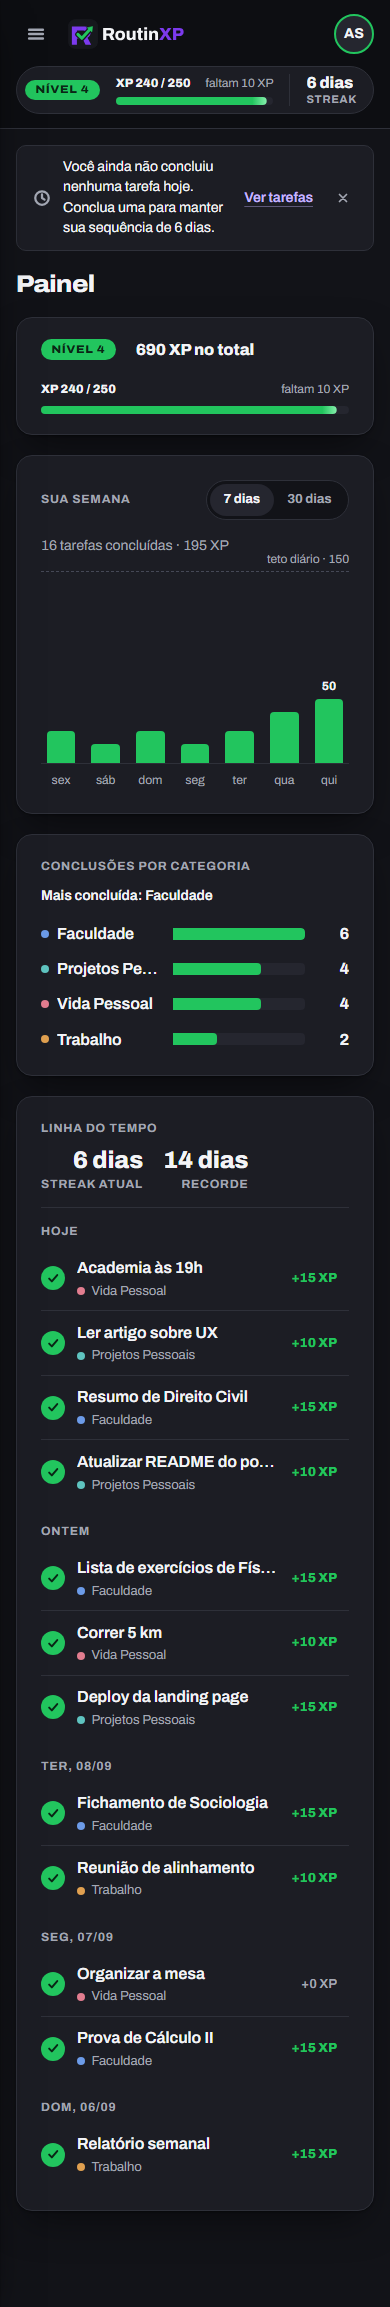
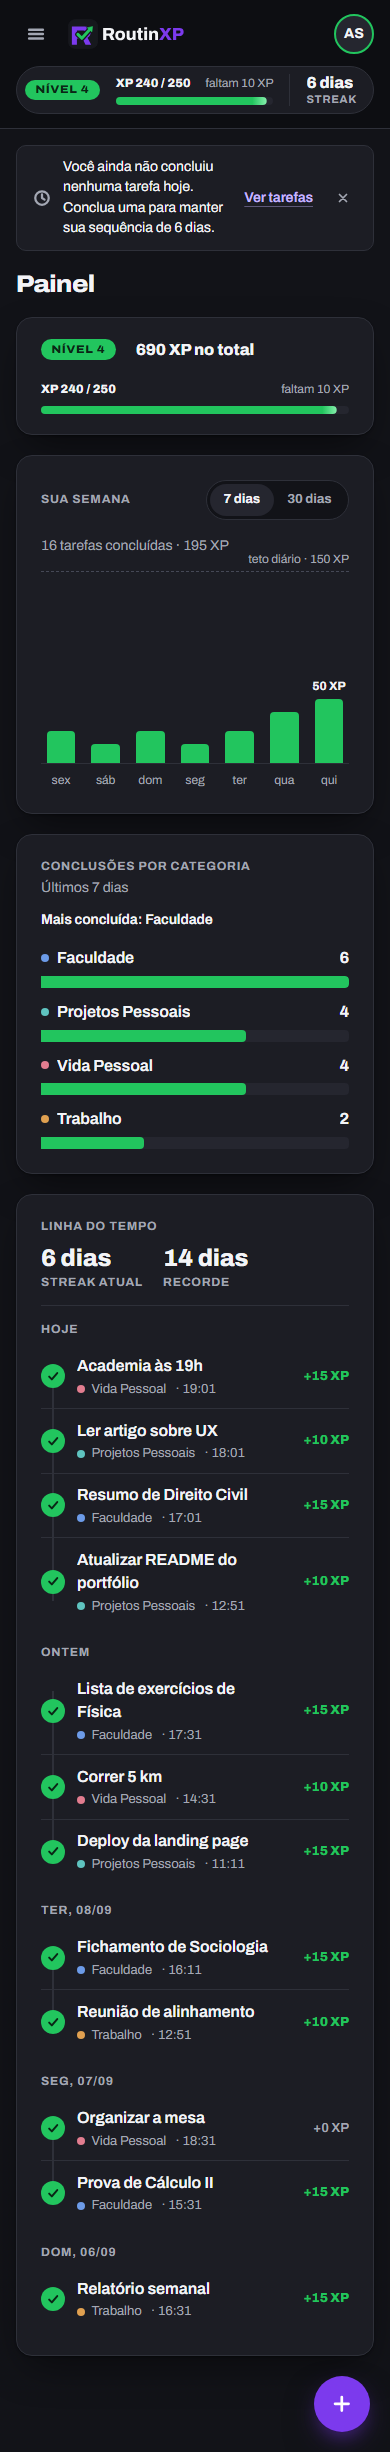
Passo 11: correções da revisão final do Impeccable
- Hora de cada conclusão também no celular (junto da categoria)
- Títulos da linha do tempo em até 2 linhas; linha vertical ligando os checks
- Categorias no celular: nome e contagem em cima, barra inteira embaixo
- Unidade XP no gráfico e na dica; período no cartão de categorias
- Colunas do gráfico só visuais; leitor de tela usa a tabela
- Gaveta fechada fora da ordem do Tab, aria-expanded no botão, foco entra e volta
- Botão flutuante de nova tarefa em todas as páginas no celular
- Cartão do usuário no menu sem estado selecionado duplicado

diff --git a/src/pages/painel.css b/src/pages/painel.css
@@ -69,6 +69,11 @@
   margin: 0;
 }
 
+.painel__titulos {
+  display: grid;
+  gap: 0.25rem;
+}
+
 /* O filtro segmentado da tela de tarefas é posicionado; aqui ele fica no fluxo. */
 .painel .segmentos {
   position: static;
@@ -137,8 +142,7 @@
   border-radius: 8px;
 }
 
-.barras__coluna:hover,
-.barras__coluna:focus-visible {
+.barras__coluna:hover {
   background: var(--panel-2);
 }
 
@@ -188,8 +192,7 @@
   transform: translate(0, -110%);
 }
 
-.barras__coluna:hover .barras__dica,
-.barras__coluna:focus-visible .barras__dica {
+.barras__coluna:hover .barras__dica {
   opacity: 1;
 }
 
@@ -365,10 +368,37 @@
 }
 
 .linha-tempo__titulo {
+  display: -webkit-box;
+  -webkit-box-orient: vertical;
+  -webkit-line-clamp: 2;
+  line-clamp: 2;
   overflow: hidden;
-  text-overflow: ellipsis;
-  white-space: nowrap;
+  overflow-wrap: anywhere;
   font-weight: 600;
+}
+
+/* Linha vertical ligando os checks de cada dia: é a "linha" da linha do tempo. */
+.linha-tempo__lista {
+  position: relative;
+}
+
+.linha-tempo__lista::before {
+  content: '';
+  position: absolute;
+  left: calc(0.75rem - 1px);
+  top: 1.5rem;
+  bottom: 1.5rem;
+  width: 2px;
+  background: var(--rule);
+}
+
+.linha-tempo__check {
+  position: relative;
+  z-index: 1;
+}
+
+.linha-tempo__hora-curta {
+  display: none;
 }
 
 .linha-tempo__cat {
@@ -385,6 +415,8 @@
 }
 
 .linha-tempo__xp {
+  min-width: 3.75rem;
+  text-align: right;
   font-size: 0.8125rem;
   font-weight: 800;
   color: var(--green);
@@ -413,12 +445,41 @@
 }
 
 @media (max-width: 30rem) {
+  /* Nome e contagem numa linha, barra inteira embaixo: o nome nunca é cortado. */
   .cat-barras__linha {
-    grid-template-columns: minmax(0, 7.5rem) minmax(0, 1fr) 2rem;
-    gap: 0.75rem;
+    grid-template-columns: minmax(0, 1fr) auto;
+    grid-template-areas:
+      'nome valor'
+      'trilho trilho';
+    gap: 0.4rem 0.75rem;
+  }
+
+  .cat-barras__nome {
+    grid-area: nome;
+  }
+
+  .cat-barras__trilho {
+    grid-area: trilho;
+  }
+
+  .cat-barras__valor {
+    grid-area: valor;
+  }
+
+  .linha-tempo__item {
+    grid-template-columns: auto minmax(0, 1fr) auto;
   }
 
   .linha-tempo__hora {
     display: none;
+  }
+
+  .linha-tempo__hora-curta {
+    display: inline;
+    white-space: pre;
+  }
+
+  .painel__streaks div {
+    justify-items: start;
   }
 }

diff --git a/src/pages/Shell.jsx b/src/pages/Shell.jsx
@@ -1,10 +1,12 @@
-import { useState } from 'react'
+import { useCallback, useState } from 'react'
 import { Outlet, useLocation, useNavigate } from 'react-router'
 import { useDados } from '../lib/useDados'
 import { DadosContexto } from '../lib/dadosContexto'
 import { MenuLateral } from '../components/MenuLateral'
 import { TopBar } from '../components/TopBar'
 import { LembreteStreak } from '../components/LembreteStreak'
+import { IconeMais } from '../components/icones'
+import { t } from '../i18n/pt-BR'
 import './tarefas.css'
 import './shell.css'
 
@@ -34,6 +36,9 @@ export default function Shell({ session }) {
     setGavetaAberta(false)
   }
 
+  // Referência estável: o efeito da gaveta (foco e Esc) não deve rodar a cada render.
+  const fecharGaveta = useCallback(() => setGavetaAberta(false), [])
+
   function alternarMenu() {
     setRecolhido((atual) => {
       const novo = !atual
@@ -56,7 +61,7 @@ export default function Shell({ session }) {
           recolhido={recolhido}
           onAlternar={alternarMenu}
           gavetaAberta={gavetaAberta}
-          onFecharGaveta={() => setGavetaAberta(false)}
+          onFecharGaveta={fecharGaveta}
           perfil={d.perfil}
           stats={d.stats}
           email={session.user.email}
@@ -68,9 +73,17 @@ export default function Shell({ session }) {
             email={session.user.email}
             onNovaTarefa={novaTarefa}
             onAbrirMenu={() => setGavetaAberta(true)}
+            gavetaAberta={gavetaAberta}
           />
           <LembreteStreak stats={d.stats} />
           <Outlet context={{ session }} />
+          {/* No celular a barra não tem "Nova tarefa": o botão flutuante faz esse papel em
+              todas as páginas (a de Tarefas tem o próprio, que abre o formulário ali mesmo). */}
+          {location.pathname !== '/' && (
+            <button type="button" className="fab" onClick={novaTarefa} aria-label={t.topo.novaTarefa}>
+              <IconeMais />
+            </button>
+          )}
         </div>
       </div>
     </DadosContexto.Provider>

diff --git a/src/components/GraficoBarras.jsx b/src/components/GraficoBarras.jsx
@@ -18,24 +18,22 @@ export function GraficoBarras({ dados, teto, titulo }) {
         <div className="barras__teto" style={{ bottom: `${(teto / escala) * 100}%` }} aria-hidden="true">
           <span>{p.teto(teto)}</span>
         </div>
+        {/* As colunas são só visuais (dica no hover); leitor de tela usa a tabela abaixo. */}
         {dados.map((d, i) => (
           <div
             key={d.dia}
             className="barras__coluna"
             // Dica alinhada para dentro nas pontas, para não vazar do cartão.
             data-lado={i < dados.length / 3 ? 'inicio' : i >= (dados.length * 2) / 3 ? 'fim' : undefined}
-            tabIndex={0}
-            aria-label={p.barra(rotuloDiaSemana(d.dia), rotuloDiaMes(d.dia), d.xp, d.concluidas)}
+            aria-hidden="true"
           >
             {d === maior && d.xp > 0 && (
-              <span className="barras__valor" style={{ bottom: `calc(${(d.xp / escala) * 100}% + 0.25rem)` }} aria-hidden="true">
-                {d.xp}
+              <span className="barras__valor" style={{ bottom: `calc(${(d.xp / escala) * 100}% + 0.25rem)` }}>
+                {p.xp(d.xp)}
               </span>
             )}
-            <span className="barras__barra" style={{ height: `${(d.xp / escala) * 100}%` }} aria-hidden="true" />
-            <span className="barras__dica" aria-hidden="true">
-              {rotuloDiaSemana(d.dia)} {rotuloDiaMes(d.dia)} · {d.xp} XP · {d.concluidas}
-            </span>
+            <span className="barras__barra" style={{ height: `${(d.xp / escala) * 100}%` }} />
+            <span className="barras__dica">{p.barra(rotuloDiaSemana(d.dia), rotuloDiaMes(d.dia), d.xp, d.concluidas)}</span>
           </div>
         ))}
       </div>

diff --git a/src/components/MenuLateral.jsx b/src/components/MenuLateral.jsx
@@ -17,13 +17,19 @@ const ITENS = [
 // Menu lateral fixo e retrátil (como o do app do Claude). Desktop: expandido ou em trilho
 // de ícones. Celular: gaveta sobre a página, aberta pelo botão da barra superior.
 export function MenuLateral({ recolhido, onAlternar, gavetaAberta, onFecharGaveta, perfil, stats, email }) {
+  // Gaveta aberta: foco vai para dentro dela e Esc fecha. Ao fechar, o foco volta
+  // para o botão que abriu.
   useEffect(() => {
     if (!gavetaAberta) return undefined
+    document.querySelector('.menu-lateral__fechar')?.focus()
     const aoTeclar = (evento) => {
       if (evento.key === 'Escape') onFecharGaveta()
     }
     window.addEventListener('keydown', aoTeclar)
-    return () => window.removeEventListener('keydown', aoTeclar)
+    return () => {
+      window.removeEventListener('keydown', aoTeclar)
+      document.querySelector('.topo__menu')?.focus()
+    }
   }, [gavetaAberta, onFecharGaveta])
 
   const nivel = calcularNivel(stats?.xp_total ?? 0).nivel
@@ -31,7 +37,7 @@ export function MenuLateral({ recolhido, onAlternar, gavetaAberta, onFecharGavet
   return (
     <>
       {gavetaAberta && <div className="menu-lateral__fundo" onClick={onFecharGaveta} aria-hidden="true" />}
-      <aside className="menu-lateral" data-recolhido={recolhido} data-gaveta={gavetaAberta} aria-label={m.rotulo}>
+      <aside id="menu-lateral" className="menu-lateral" data-recolhido={recolhido} data-gaveta={gavetaAberta} aria-label={m.rotulo}>
         <div className="menu-lateral__topo">
           <Logo className="menu-lateral__logo" />
           <img className="menu-lateral__icone" src="/marca/routinxp-icone.svg" alt={t.app.nome} width="32" height="32" />

diff --git a/src/components/LinhaDoTempo.jsx b/src/components/LinhaDoTempo.jsx
@@ -43,12 +43,19 @@ export function LinhaDoTempo({ tarefas, categoriasPorId, limite = 12 }) {
                   </span>
                   <span className="linha-tempo__texto">
                     <span className="linha-tempo__titulo">{tarefa.titulo}</span>
-                    {categoria && (
-                      <span className="linha-tempo__cat">
-                        <span className="dot" style={{ background: categoria.cor }} />
-                        {categoria.nome}
+                    <span className="linha-tempo__cat">
+                      {categoria && (
+                        <>
+                          <span className="dot" style={{ background: categoria.cor }} />
+                          {categoria.nome}
+                        </>
+                      )}
+                      {/* No celular a hora vem aqui, junto da categoria. */}
+                      <span className="linha-tempo__hora-curta" aria-hidden="true">
+                        {categoria ? ' · ' : ''}
+                        {horaBrasilia(tarefa.completed_at)}
                       </span>
-                    )}
+                    </span>
                   </span>
                   <time className="linha-tempo__hora" dateTime={tarefa.completed_at}>
                     {horaBrasilia(tarefa.completed_at)}

diff --git a/src/components/TopBar.jsx b/src/components/TopBar.jsx
@@ -9,13 +9,20 @@ import { t } from '../i18n/pt-BR'
 
 // Barra superior do app: botão do menu (celular), logo (celular), medidor de nível,
 // "Nova tarefa" e menu da conta. No desktop a logo fica no menu lateral.
-export function TopBar({ stats, perfil, email, onNovaTarefa, onAbrirMenu }) {
+export function TopBar({ stats, perfil, email, onNovaTarefa, onAbrirMenu, gavetaAberta }) {
   const medidor = useMedidorNivel(stats?.xp_total ?? 0, Boolean(stats))
   const streak = stats?.streak_atual ?? 0
 
   return (
     <header className="topo">
-      <button type="button" className="topo__menu" onClick={onAbrirMenu} aria-label={t.menu.abrir}>
+      <button
+        type="button"
+        className="topo__menu"
+        onClick={onAbrirMenu}
+        aria-label={t.menu.abrir}
+        aria-expanded={gavetaAberta}
+        aria-controls="menu-lateral"
+      >
         <IconeMenu />
       </button>
       <Logo className="topo__logo" />

diff --git a/src/i18n/pt-BR.js b/src/i18n/pt-BR.js
@@ -122,10 +122,12 @@ export const t = {
     mes: 'Seus últimos 30 dias',
     periodo: { rotulo: 'Período', sete: '7 dias', trinta: '30 dias' },
     resumo: (n, xp) => `${n} ${n === 1 ? 'tarefa concluída' : 'tarefas concluídas'} · ${xp} XP`,
-    teto: (n) => `teto diário · ${n}`,
-    barra: (dia, data, xp, n) => `${dia}, ${data}: ${xp} XP, ${n} ${n === 1 ? 'tarefa' : 'tarefas'}`,
+    teto: (n) => `teto diário · ${n} XP`,
+    xp: (n) => `${n} XP`,
+    barra: (dia, data, xp, n) => `${dia} ${data} · ${xp} XP · ${n} ${n === 1 ? 'tarefa' : 'tarefas'}`,
     tabela: { dia: 'Dia', xp: 'XP', tarefas: 'Tarefas' },
     categorias: 'Conclusões por categoria',
+    categoriasPeriodo: (n) => `Últimos ${n} dias`,
     maisConcluida: (nome) => `Mais concluída: ${nome}`,
     semCategorias: 'Crie categorias para ver este gráfico.',
     semConclusoes: 'Nenhuma tarefa concluída neste período.',

diff --git a/src/pages/shell.css b/src/pages/shell.css
@@ -135,8 +135,8 @@
   transition: background-color 0.2s var(--ease-out);
 }
 
-.menu-lateral__usuario:hover,
-.menu-lateral__usuario[aria-current='page'] {
+/* Sem estado de página atual: o item "Perfil" do menu já marca a seleção. */
+.menu-lateral__usuario:hover {
   background: var(--panel-2);
 }
 
@@ -314,12 +314,18 @@
     z-index: 35;
     width: min(18rem, 85vw);
     transform: translateX(-100%);
-    transition: transform 0.3s var(--ease-out);
+    /* Fechada, a gaveta sai da ordem do Tab (visibility), depois de terminar de deslizar. */
+    visibility: hidden;
+    transition:
+      transform 0.3s var(--ease-out),
+      visibility 0s linear 0.3s;
     box-shadow: var(--shadow);
   }
 
   .menu-lateral[data-gaveta='true'] {
     transform: none;
+    visibility: visible;
+    transition: transform 0.3s var(--ease-out);
   }
 
   .menu-lateral__alternar {

diff --git a/src/pages/Painel.jsx b/src/pages/Painel.jsx
@@ -70,9 +70,12 @@ export default function Painel() {
 
           <section className="panel painel__cartao" aria-labelledby="painel-categorias">
             <header className="painel__cabeca">
-              <h2 id="painel-categorias" className="label">
-                {p.categorias}
-              </h2>
+              <div className="painel__titulos">
+                <h2 id="painel-categorias" className="label">
+                  {p.categorias}
+                </h2>
+                <span className="painel__resumo">{p.categoriasPeriodo(periodo)}</span>
+              </div>
               {resumo.maisConcluida && <span className="painel__destaque">{p.maisConcluida(resumo.maisConcluida.nome)}</span>}
             </header>
             {d.categorias.length === 0 ? (
